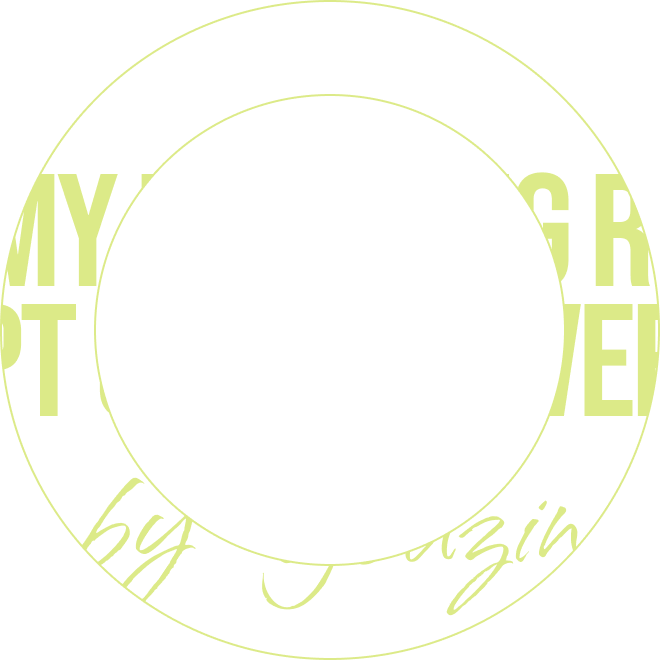
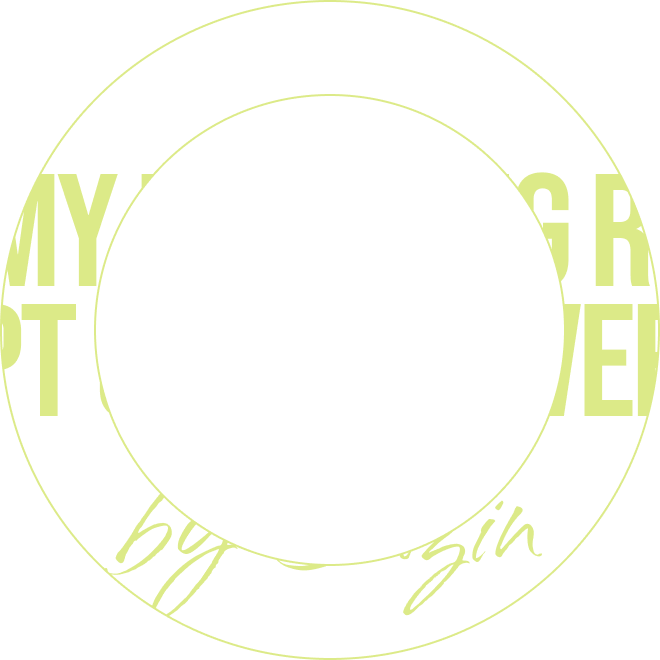
2025.04

diff --git a/App/client/src/components/contents/MainSection01.jsx b/App/client/src/components/contents/MainSection01.jsx
@@ -38,9 +38,9 @@ const MainSection01 = () => {
                     <span className="reveal reveal_BTT split" data-delay="0.7">AND GROWING!</span>
                 </h3>
                 <p className="ko">
-                    안녕하세요. 개발과 지식의 성장을 즐기는 개발자 정유진 입니다. <br />
-                    2021년 1월에 UIUX 웹 퍼블리싱 교육을 수료하여, 2년 동안 퍼블리셔로 근무하였습니다. <br />
-                    이후 2023년 1월, 프론트엔드 개발 교육을 수료하였습니다.
+                    안녕하세요.<br />
+                    UI/UX 퍼블리셔로 시작해, 현재는 프론트엔드 개발자로 일하고 있습니다.<br />
+                    3년 넘게 웹 프론트 영역에서 일하며, 효율적인 인터페이스 개발에 집중하고 있습니다.
                 </p>
             </div>
             {/* <!-- // main_text --> */}
@@ -62,14 +62,14 @@ const MainSection01 = () => {
                     </ul>
                 </div>
                 <div className="intro_text">
-                    <h3>v2.0(2K24)</h3>
-                    <p className="en">by Youzin</p>
+                    <h3>v2.1(2K25)</h3>
+                    <p className="en">by Euzin</p>
                     <p className="ko">
-                        웹 언어에 첫 발을 들인 순간부터 현재까지, 시간 공백없이 배움의 시간을 가졌습니다.<br />
-                        그만큼 프론트엔드 개발에 열정을 가지고 있으며, 사용자들에게 최고의 경험을 제공하기 위해<br />
-                        기술적으로 성장하고, 협업을 통해 사용자에게 친화적인 솔루션을 만들어내는 것이 목표입니다.<br />
-                        지속적인 학습과 발전으로 프론트엔드 개발자가 되어, 사람들의 삶을 더 나은 방향으로 이끌어가는데 기여하고 싶습니다.<br />
-                        함께 일하고 성장하는 기회를 갖기를 간절히 기대하고 있습니다.
+                        퍼블리셔로 시작해 프론트엔드 개발자로 커리어를 이어온 지 4년 차에 접어들었습니다.<br />
+                        이제는 단순히 구현을 넘어서, 유지보수성과 사용자 흐름까지 고려하며 개발하려고 노력합니다.<br />
+                        기획자·디자이너·백엔드 개발자와의 소통도 더 능숙해졌고, 협업 과정의 중요성을 매일 체감하고 있습니다.<br />
+                        앞으로도 깊이 있는 기술 역량을 쌓고, 팀에 안정감 있는 구성원으로 기여하고 싶습니다.<br />
+                        “Still learning. Still building. Always improving.”
                     </p>
                     <div className="ko add_text">
                         TAILORED HIGH-QUALITY WEB DEVELOPER
@@ -142,13 +142,13 @@ const MainSection01 = () => {
                 <div className="bike_text ko">
                     <p className='split'>
                         <em>FIRST. </em>
-                        시대별로 유행을 타지 않고 꾸준히 사랑받는 패션이 있는 것처럼, 세월이 흘러도 사람들이
-                        불편함 없이 즐겨 사용할 수 있는 사이트를 만들어내는 개발자가 되기 위해 항상 달려나가겠습니다.
+                        퍼블리셔로 시작한 경험은 지금의 개발자로서 제 강점이 되었습니다.
+                        디자인의 의도를 이해하고, 그것을 섬세하게 구현해내는 과정에 익숙합니다.
                     </p>
                     <p className='split'>
                         <em>SECOND. </em>
-                        사용자 경험을 개선하는데 열정을 가지고 있으며, 협업과 지속적인
-                        성장을 통해 노력으로 발전하는 프론트앤드 개발자로 성장하겠습니다.
+                        HTML과 CSS로 시작해 JavaScript, Liquid, GraphQL까지
+                        경험을 넓혀가며, 표현과 로직을 모두 이해하는 개발자로 성장하고 있습니다.
                     </p>
                 </div>
                 <div className="bike_cont">

diff --git a/App/client/src/components/contents/MainSection02.jsx b/App/client/src/components/contents/MainSection02.jsx
@@ -17,7 +17,7 @@ const MainSection02 = () => {
                         AND DEVELOPMENT TAILORED
                         FOR EXPANDING WEBSITES.
                     </h3>
-                    <p className="en">Uzin Developer</p>
+                    <p className="en">Developer Euzin</p>
                 </div>
                 <div className="career_second parallax__item__desc">
                     <div className="career_cont">
@@ -40,17 +40,17 @@ const MainSection02 = () => {
                             <div className="stack">
                                 <h4>my technical stack</h4>
                                 <ul className="ko">
-                                    <li>JAVASCRIPT&nbsp;&nbsp;&nbsp;JQUERY&nbsp;&nbsp;&nbsp;REACT&nbsp;&nbsp;&nbsp;VUE&nbsp;&nbsp;&nbsp;VITE&nbsp;&nbsp;&nbsp;NEXT.JS
+                                    <li>JAVASCRIPT&nbsp;&nbsp;&nbsp;JQUERY&nbsp;&nbsp;&nbsp;REACT&nbsp;&nbsp;&nbsp;LIQUID&nbsp;&nbsp;&nbsp;GRAPHQL
                                     </li>
                                     <li>HTML&nbsp;&nbsp;&nbsp;CSS&nbsp;&nbsp;&nbsp;SCSS</li>
                                     <li>PHOTOSHOP&nbsp;&nbsp;&nbsp;ILLUSTRATER&nbsp;&nbsp;&nbsp;ADOBE
                                         XD&nbsp;&nbsp;&nbsp;FIGMA</li>
                                     <li>MONGODB&nbsp;&nbsp;&nbsp;MONGOOSE&nbsp;&nbsp;&nbsp;PHP&nbsp;&nbsp;&nbsp;PHPMYADMIN
                                     </li>
-                                    <li>GIT&nbsp;&nbsp;&nbsp;GITHUB</li>
+                                    <li>GIT&nbsp;&nbsp;&nbsp;GITHUB&nbsp;&nbsp;&nbsp;GITLAB</li>
                                     <li>FILEZILLA&nbsp;&nbsp;&nbsp;NETLIFY</li>
                                     <li>POSTMAN&nbsp;&nbsp;&nbsp;VS
-                                        CODE&nbsp;&nbsp;&nbsp;GNUBOARD&nbsp;&nbsp;&nbsp;CAFE24</li>
+                                        CODE&nbsp;&nbsp;&nbsp;GNUBOARD&nbsp;&nbsp;&nbsp;CAFE24&nbsp;&nbsp;&nbsp;SHOPIFY</li>
                                 </ul>
                             </div>
                             <div className="career">
@@ -59,18 +59,18 @@ const MainSection02 = () => {
                                     <li>한양여자대학교 - 니트패션디자인과 전공 <span>2017.02 ~ 2020.02 (졸업)</span></li>
                                     <li>대한섬유 - 니트 프로그래머 <span>2020.01 ~ 2020.07 (7개월)</span></li>
                                     <li>라인컴퓨터아트학원 - 웹 퍼블리셔디자인 수료 <span>2020.08 ~ 2021.01 (졸업)</span></li>
-                                    <li>그리다인 - 웹 퍼블리셔 <span>2021.05 ~ 2023.07 (2년)</span></li>
-                                    <li>라인컴퓨터아트학원 - 프론트앤드 개발 수료 <span>2023.08 ~ 2024.01 (졸업예정)</span></li>
-                                    <li>I am waiting for your company</li>
-                                    <li>to fill this next position.</li>
+                                    <li>그리다인 - [사원] 웹 퍼블리셔 <span>2021.05 ~ 2023.07 (2년)</span></li>
+                                    <li>라인컴퓨터아트학원 - 프론트앤드 개발 수료 <span>2023.08 ~ 2024.01 (졸업)</span></li>
+                                    <li>솔루게이트 - [대리] 프론트엔드 개발자 <span>2024.03 ~ (재직중)</span></li>
+                                    <li>Waiting for the next job</li>
                                 </ul>
                             </div>
                         </div>
                     </div>
                 </div>
                 <div className="career_text ko">
-                    매력적인 프론트엔드는 사용자들의 경험을 개선하며 직관적이고 시각적으로 매력있는 인터페이스를 제공하는 것입니다.<br />
-                    I will become an appealing frontend developer.
+                    Eleganza nella forma. Precisione nella funzione.<br />
+                    (Finesse in form. Precision in function.)
                 </div>
             </div>
             {/* <!-- // main_career --> */}

diff --git a/App/client/public/index.html b/App/client/public/index.html
@@ -4,11 +4,12 @@
 <head>
   <meta charset="UTF-8">
   <meta name="viewport" content="width=device-width, initial-scale=1.0">
-  <meta name="description" content="프론트엔드 개발자 정유진 포트폴리오 입니다.">
+  <meta name="description" content="Portfolio of front-end developer EUZIN">
   <meta name="keywords"
-    content="정유진, react, Node.js, node, React, portfolio, 웹 퍼블리셔, 웹 표준, 웹 접근성, 화려한 디자인, uzin, publisher, css3, html, markup, design">
+    content="EUZIN, Euzin, 정유진, react, Node.js, node, React, portfolio, 웹 퍼블리셔, 웹 표준, 웹 접근성, 화려한 디자인, uzin, publisher, css3, html, markup, design">
+  <meta property="og:image" content="https://uzin-portfolio-2025.onrender.com/static/thumbnail.jpg" />
   <link rel="icon" type="image/svg+xml" href="favicon.svg">
-  <title>U-zin's portfolio</title>
+  <title>Portfolio of Euzin</title>
   <script src="https://unpkg.com/split-type"></script>
   <script src="https://unpkg.com/@studio-freight/lenis@1.0.33/dist/lenis.min.js"></script>
 

diff --git a/App/client/src/components/contents/MainSection05.jsx b/App/client/src/components/contents/MainSection05.jsx
@@ -8,7 +8,7 @@ const MainSection05 = () => {
         <section id="mainSection" className="cont_container">
             <h3 className="cont_title">Please get in touch!</h3>
             <p className="cont_ment">I'm always here, waiting.</p>
-            <p className="cont_ment en">by Youzin</p>
+            <p className="cont_ment en">by Euzin</p>
             <div className="infor_cont">
                 <div className="infor_box">
                     <div className="infor_title">
@@ -24,7 +24,7 @@ const MainSection05 = () => {
                         GITHUB. <a href="https://github.com/uUZINN">https://github.com/uUZINN</a>
                     </p>
                     <div className="infor_btn">
-                        <p className="en2">I can't wait to hear from you</p>
+                        <p className="en2">I'd love to connect.</p>
                         <Link to="mailto:dbwls9038@naver.com">Send email</Link>
                     </div>
                 </div>

diff --git a/App/client/src/components/header/MainBottom.jsx b/App/client/src/components/header/MainBottom.jsx
@@ -22,7 +22,7 @@ const MainBottom = () => {
             </div>
             <div className="main_bottom02">
                 <div className="main_bottom02_title">
-                    <p>INNOVATE CODE IN 2024.</p>
+                    <p>INNOVATE CODE IN 2025.</p>
                     <ul>
                         <li><Link to="https://uzin-portfolio.kro.kr/">website</Link></li>
                         <li><Link to="https://github.com/uUZINN/uzin-portfolio03">interface</Link></li>

diff --git a/App/client/src/components/header/MainHeader.jsx b/App/client/src/components/header/MainHeader.jsx
@@ -25,7 +25,7 @@ const MainHeader = () => {
           <span class="ko">Introduce</span>
           INFO
         </a>
-        <p>AVAILABLE FOR COMMISSIONS 2024</p>
+        <p>AVAILABLE FOR COMMISSIONS 2025</p>
         <a href="#headWork">
           <span class="ko">Portfolio</span>
           WORK

diff --git a/App/client/src/components/header/MainContent.jsx b/App/client/src/components/header/MainContent.jsx
@@ -9,7 +9,7 @@ const MainContent = () => {
         </svg>
       </h1>
 
-      <p className="en">uzin's portfolio</p>
+      <p className="en">Portfolio of Euzin</p>
     </div>
   )
 }
